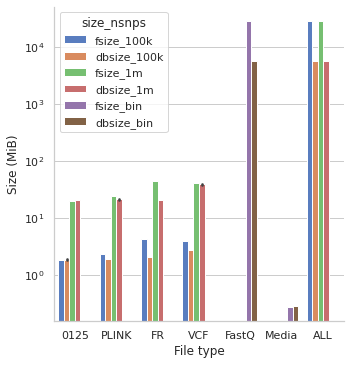
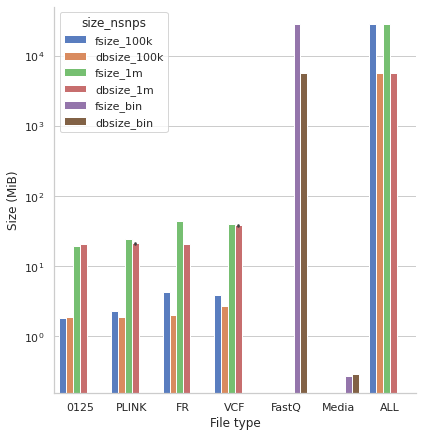
Update graphs for better visibility

Changed region(s): [[0.0, 0.0603, 0.9714, 0.9945], [0.0571, 0.0301, 0.4857, 0.3616], [0.4571, 0.0301, 0.4857, 0.0603]]

diff --git a/experiment_graphs.py b/experiment_graphs.py
@@ -240,6 +240,7 @@ snsplot = sns.catplot(
     # col_order=["zlib"],
     kind="bar",
     legend_out=False,
+    height=6,
 )
 
 snsplot._legend.set_title("# SNPs")
@@ -283,6 +284,7 @@ snsplot = sns.catplot(
     data=df_melted,
     kind="bar",
     legend_out=False,
+    height=6,
 )
 
 snsplot._legend.set_title("size_nsnps")
@@ -321,7 +323,7 @@ df_melted = pd.melt(
     value_vars=["time"],
 )
 sns.set(style="whitegrid", palette=sns.color_palette("muted", n_colors=6, desat=1.0))
-fig = plt.figure()
+fig = plt.figure(figsize=(6.4, 6.4))
 ax = sns.lineplot(
     data=df_melted,
     x="nsamples",
@@ -376,7 +378,7 @@ df_melted = df_melted[df_melted["nsnps"] == 100000.0]
 df_melted["value"] /= 1024 ** 2
 sns.set(style="whitegrid", palette=sns.color_palette("muted", n_colors=6, desat=1.0))
 
-fig = plt.figure()
+fig = plt.figure(figsize=(6.4, 6.4))
 ax = sns.lineplot(
     data=df_melted,
     x="nsamples",
@@ -432,7 +434,7 @@ df_melted = df_melted[df_melted["nsnps"] == 1000000.0]
 df_melted["value"] /= 1024 ** 2
 sns.set(style="whitegrid", palette=sns.color_palette("muted", n_colors=6, desat=1.0))
 
-fig = plt.figure()
+fig = plt.figure(figsize=(6.4, 6.4))
 ax = sns.lineplot(
     data=df_melted,
     x="nsamples",
@@ -494,7 +496,7 @@ df_melted = pd.melt(
 )
 sns.set(style="whitegrid", palette=sns.color_palette("muted", n_colors=6, desat=1.0))
 
-fig = plt.figure()
+fig = plt.figure(figsize=(6.4, 6.4))
 ax = sns.lineplot(
     data=df_melted,
     x="nsamples",
@@ -544,7 +546,7 @@ df_melted = pd.melt(
 )
 sns.set(style="whitegrid", palette=sns.color_palette("muted", n_colors=6, desat=1.0))
 
-fig = plt.figure()
+fig = plt.figure(figsize=(6.4, 6.4))
 ax = sns.lineplot(
     data=df_melted,
     x="nsamples",
@@ -593,7 +595,7 @@ df_melted = pd.melt(
 )
 sns.set(style="whitegrid", palette=sns.color_palette("muted", n_colors=6, desat=1.0))
 
-fig = plt.figure()
+fig = plt.figure(figsize=(6.4, 6.4))
 ax = sns.lineplot(
     data=df_melted,
     x="nsamples",
@@ -644,7 +646,7 @@ df_melted = pd.melt(
 )
 sns.set(style="whitegrid", palette=sns.color_palette("muted", n_colors=6, desat=1.0))
 
-fig = plt.figure()
+fig = plt.figure(figsize=(6.4, 6.4))
 ax = sns.lineplot(
     data=df_melted,
     x="nsamples",
@@ -691,7 +693,7 @@ df_melted = pd.melt(
 )
 sns.set(style="whitegrid", palette=sns.color_palette("muted", n_colors=6, desat=1.0))
 
-fig = plt.figure()
+fig = plt.figure(figsize=(6.4, 6.4))
 ax = sns.lineplot(
     data=df_melted,
     x="nsamples",
